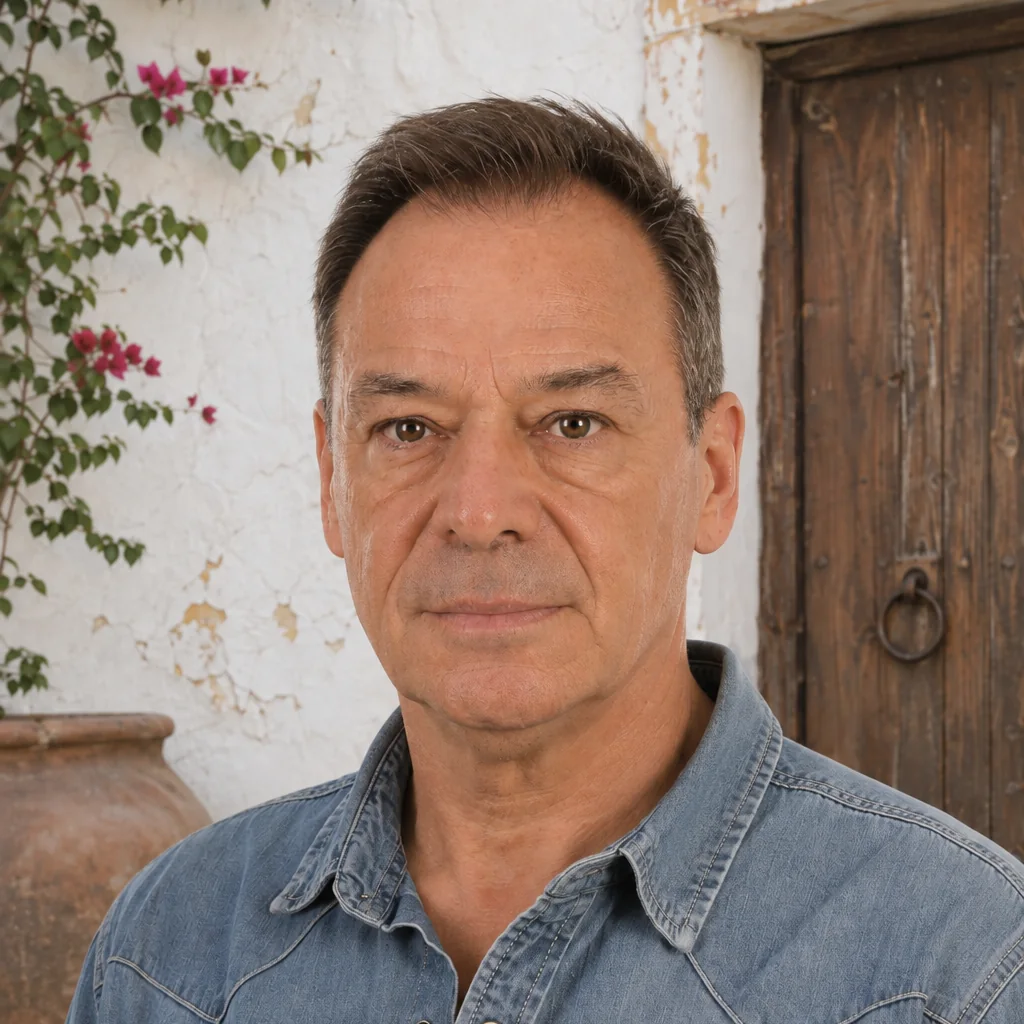
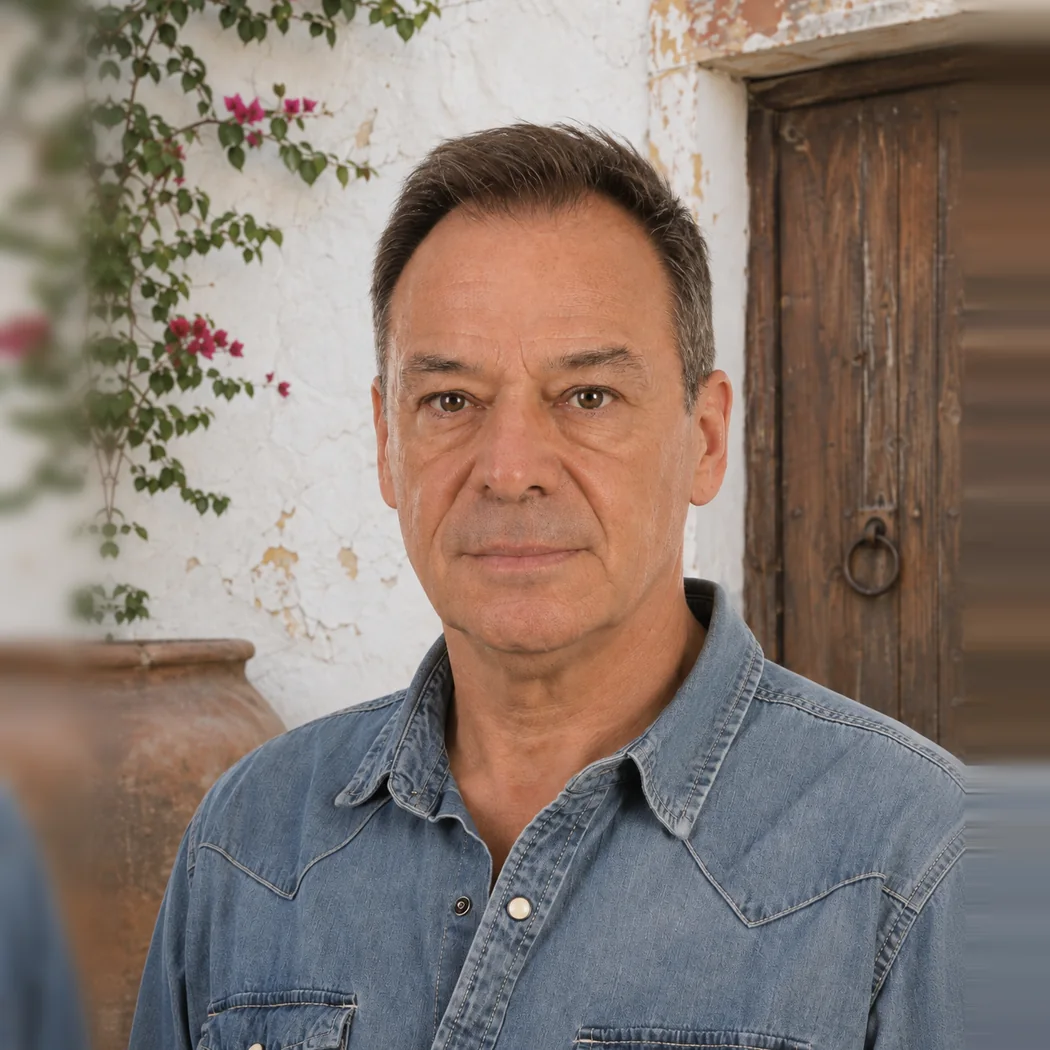
Foto Sobre: enquadramento mais aberto (~18%)
Claude-Session: https://claude.ai/code/session_016SUXdx9TjdyHh8kr6VuhDF

diff --git a/sobre/index.html b/sobre/index.html
@@ -10,5 +10,5 @@
 <a aria-label="ESSEN.CIA — Página inicial" class="logo" href="../"><img alt="ESSEN.CIA" class="brand-logo" data-v07-img="1" src="../assets/img/img-01.png"/></a>
 <nav aria-label="Menu principal" class="nav" id="nav"><a data-nav="inicio" data-v07-text="1" href="../">Início</a><a data-nav="sessoes" data-v07-text="2" href="../sessoes/">Sessões</a><a data-nav="essencia" data-v07-text="3" href="../essencia/">Essência</a><a data-nav="sobre" data-v07-text="4" href="../sobre/">Sobre</a><a class="btn mobile-only" data-v07-text="5" href="../sessoes/#contacto">Agendar conversa gratuita</a><a class="lang-switch" lang="en" hreflang="en" href="../en/about/">EN</a></nav>
 <a class="btn head-cta" data-v07-text="6" href="../sessoes/#contacto">Agendar conversa gratuita</a><a class="lang-switch lang-desk" lang="en" hreflang="en" href="../en/about/">EN</a><button aria-controls="nav" aria-expanded="false" aria-label="Abrir menu" class="menu-toggle" id="menu-toggle" type="button">☰</button></header>
-<main class="active" data-page="sobre" id="sobre"><section class="page-hero"><div class="shell about-top"><div><div class="eyebrow" data-v07-text="120">O facilitador</div><h1 data-v07-text="121">Quem está por detrás da ESSEN.CIA?</h1><p data-v07-text="122">Sou o Domingos Frazão. Facilito sessões de respiração consciente e práticas de consciência corporal. Sou também o fundador e responsável pela ESSEN.CIA.</p></div><figure class="image-frame feature-photo portrait-round"><img alt="Retrato de Domingos Frazão, fundador da ESSEN.CIA" data-v07-img="12" decoding="async" loading="lazy" src="../assets/img/img-12.webp?v=2"/></figure></div></section><section class="section"><div class="shell"><div class="long-read"><h2 data-v07-text="123">O meu percurso</h2><p data-v07-text="124">Durante mais de 30 anos trabalhei em tecnologia, gestão, desenvolvimento de negócio e coordenação de projetos. Foram anos de decisões, responsabilidade e contacto com pessoas em contextos exigentes. Vi de perto como vivemos a pressão e o pouco espaço que deixamos para perceber o que se passa connosco.</p><p data-v07-text="125">Em paralelo, fiz o meu caminho através do movimento, da música, do som e de várias formações em desenvolvimento pessoal. Aos poucos, a respiração e a consciência corporal passaram a ocupar o centro.</p><p data-v07-text="126">O que mais me formou foi a prática: equipas de suporte a retiros, trabalho com práticas somáticas e bioenergética, e muitas horas a escutar e a acompanhar o que surge numa sessão individual ou de grupo.</p><p class="card-small formacao-line">Formação: Breathwork Facilitator Training (INJOY) · Advanced Instructor Certification (Oxygen Advantage) · Working With People</p><hr class="light-rule"/><h2 data-v07-text="127">Como trabalho</h2><p data-v07-text="128">Hoje, na ESSEN.CIA, junto estas experiências de forma simples e prática. Facilito sessões de respiração consciente, movimento e exploração corporal, adaptadas a cada pessoa e ao seu contexto.</p><p data-v07-text="129">Às vezes o ponto de partida é concreto: conhecer a respiração, lidar com a pressão, ganhar foco, recuperar energia ou abrandar. Outras vezes, a sessão abre espaço à expressão emocional, ao autoconhecimento ou a experiências mais profundas.</p><p data-v07-text="130">Não acredito numa técnica que sirva para toda a gente, nem numa experiência com um resultado definido à partida. O meu papel não é interpretar o que cada pessoa vive nem indicar-lhe um caminho. É estar presente, propor ferramentas quando fazem sentido e criar condições para que cada pessoa explore e integre o que é importante para si.</p><hr class="light-rule"/><h2 data-v07-text="132">Colaborações</h2><p data-v07-text="133">Faço parte da equipa da INJOY, onde apoio retiros e sessões.</p><p>Atualmente, as sessões presenciais da ESSEN.CIA são no espaço SEED, onde também integro a equipa de facilitadores.</p><p>Estou também disponível para colaborar com outros profissionais e organizações que trabalhem a respiração e o corpo de forma responsável.</p><div aria-label="Projetos e espaços com ligação ao percurso do fundador" class="partners"><a aria-label="Visitar o Espaço SEED" class="partner-card" href="https://espacoseed.pt/" rel="noopener noreferrer" target="_blank"><span aria-hidden="true" class="partner-mark partner-seed-mark" style="background:#9c9084;border-color:#9c9084"><img alt="Identidade visual provisória do Espaço SEED" data-v07-img="13" height="120" loading="lazy" src="../assets/img/img-13.webp" width="120"/></span><span class="partner-name" data-v07-text="134">SEED</span><span class="partner-role" data-v07-text="135">Espaço onde decorrem as sessões presenciais</span><span class="partner-visit" data-v07-text="136">Visitar o site ↗</span></a><a aria-label="Visitar a Injoy" class="partner-card" href="https://injoy.pt/" rel="noopener noreferrer" target="_blank"><span class="partner-mark" style="background:#eee3c5;border-color:#eee3c5"><img alt="Logótipo Injoy com colibri" data-v07-img="14" decoding="async" height="96" loading="eager" src="../assets/img/img-14.webp" width="96"/></span><span class="partner-name" data-v07-text="137">INJOY</span><span class="partner-role" data-v07-text="138">Formação, experiências e retiros</span><span class="partner-visit" data-v07-text="139">Visitar o site ↗</span></a></div><hr class="light-rule"/><h2 data-v07-text="141">O próximo passo é teu.</h2><p data-v07-text="142">Para tirar dúvidas, propor uma colaboração ou experimentar uma sessão, começamos sempre por uma conversa.</p><a class="btn" data-v07-text="143" href="../sessoes/#contacto">Agendar conversa gratuita</a> </div></div></section></main>
+<main class="active" data-page="sobre" id="sobre"><section class="page-hero"><div class="shell about-top"><div><div class="eyebrow" data-v07-text="120">O facilitador</div><h1 data-v07-text="121">Quem está por detrás da ESSEN.CIA?</h1><p data-v07-text="122">Sou o Domingos Frazão. Facilito sessões de respiração consciente e práticas de consciência corporal. Sou também o fundador e responsável pela ESSEN.CIA.</p></div><figure class="image-frame feature-photo portrait-round"><img alt="Retrato de Domingos Frazão, fundador da ESSEN.CIA" data-v07-img="12" decoding="async" loading="lazy" src="../assets/img/img-12.webp?v=3"/></figure></div></section><section class="section"><div class="shell"><div class="long-read"><h2 data-v07-text="123">O meu percurso</h2><p data-v07-text="124">Durante mais de 30 anos trabalhei em tecnologia, gestão, desenvolvimento de negócio e coordenação de projetos. Foram anos de decisões, responsabilidade e contacto com pessoas em contextos exigentes. Vi de perto como vivemos a pressão e o pouco espaço que deixamos para perceber o que se passa connosco.</p><p data-v07-text="125">Em paralelo, fiz o meu caminho através do movimento, da música, do som e de várias formações em desenvolvimento pessoal. Aos poucos, a respiração e a consciência corporal passaram a ocupar o centro.</p><p data-v07-text="126">O que mais me formou foi a prática: equipas de suporte a retiros, trabalho com práticas somáticas e bioenergética, e muitas horas a escutar e a acompanhar o que surge numa sessão individual ou de grupo.</p><p class="card-small formacao-line">Formação: Breathwork Facilitator Training (INJOY) · Advanced Instructor Certification (Oxygen Advantage) · Working With People</p><hr class="light-rule"/><h2 data-v07-text="127">Como trabalho</h2><p data-v07-text="128">Hoje, na ESSEN.CIA, junto estas experiências de forma simples e prática. Facilito sessões de respiração consciente, movimento e exploração corporal, adaptadas a cada pessoa e ao seu contexto.</p><p data-v07-text="129">Às vezes o ponto de partida é concreto: conhecer a respiração, lidar com a pressão, ganhar foco, recuperar energia ou abrandar. Outras vezes, a sessão abre espaço à expressão emocional, ao autoconhecimento ou a experiências mais profundas.</p><p data-v07-text="130">Não acredito numa técnica que sirva para toda a gente, nem numa experiência com um resultado definido à partida. O meu papel não é interpretar o que cada pessoa vive nem indicar-lhe um caminho. É estar presente, propor ferramentas quando fazem sentido e criar condições para que cada pessoa explore e integre o que é importante para si.</p><hr class="light-rule"/><h2 data-v07-text="132">Colaborações</h2><p data-v07-text="133">Faço parte da equipa da INJOY, onde apoio retiros e sessões.</p><p>Atualmente, as sessões presenciais da ESSEN.CIA são no espaço SEED, onde também integro a equipa de facilitadores.</p><p>Estou também disponível para colaborar com outros profissionais e organizações que trabalhem a respiração e o corpo de forma responsável.</p><div aria-label="Projetos e espaços com ligação ao percurso do fundador" class="partners"><a aria-label="Visitar o Espaço SEED" class="partner-card" href="https://espacoseed.pt/" rel="noopener noreferrer" target="_blank"><span aria-hidden="true" class="partner-mark partner-seed-mark" style="background:#9c9084;border-color:#9c9084"><img alt="Identidade visual provisória do Espaço SEED" data-v07-img="13" height="120" loading="lazy" src="../assets/img/img-13.webp" width="120"/></span><span class="partner-name" data-v07-text="134">SEED</span><span class="partner-role" data-v07-text="135">Espaço onde decorrem as sessões presenciais</span><span class="partner-visit" data-v07-text="136">Visitar o site ↗</span></a><a aria-label="Visitar a Injoy" class="partner-card" href="https://injoy.pt/" rel="noopener noreferrer" target="_blank"><span class="partner-mark" style="background:#eee3c5;border-color:#eee3c5"><img alt="Logótipo Injoy com colibri" data-v07-img="14" decoding="async" height="96" loading="eager" src="../assets/img/img-14.webp" width="96"/></span><span class="partner-name" data-v07-text="137">INJOY</span><span class="partner-role" data-v07-text="138">Formação, experiências e retiros</span><span class="partner-visit" data-v07-text="139">Visitar o site ↗</span></a></div><hr class="light-rule"/><h2 data-v07-text="141">O próximo passo é teu.</h2><p data-v07-text="142">Para tirar dúvidas, propor uma colaboração ou experimentar uma sessão, começamos sempre por uma conversa.</p><a class="btn" data-v07-text="143" href="../sessoes/#contacto">Agendar conversa gratuita</a> </div></div></section></main>
 <footer class="footer"><div class="shell"><div class="footer-top"><div><a aria-label="ESSEN.CIA — início" class="logo" href="../"><img alt="ESSEN.CIA Breathwork" class="brand-logo" src="../assets/img/logo-breathwork-branco.png"/></a><p class="muted" data-v07-text="164" style="margin-top:17px">Respiração · Corpo · Consciência</p><form class="footer-news" id="news-form" novalidate=""><label for="news-email">Recebe as datas das próximas sessões</label><div class="footer-news-row"><input id="news-email" name="email" type="email" autocomplete="email" required="" placeholder="o teu e-mail" maxlength="160"/><input name="site" tabindex="-1" autocomplete="off" aria-hidden="true" style="position:absolute;left:-9999px;width:1px;height:1px"/><button class="btn" type="submit">Receber</button></div><p class="footer-news-note" id="news-status" role="status" aria-live="polite">Vais receber um e-mail para confirmar. Podes sair quando quiseres.</p></form></div><nav aria-label="Rodapé" class="footer-nav"><a data-v07-text="165" href="../">Início</a><a data-v07-text="166" href="../sessoes/">Sessões</a><a data-v07-text="167" href="../essencia/">Essência</a><a data-v07-text="168" href="../sobre/">Sobre</a></nav><div class="footer-nav footer-contact-links"><a data-v07-text="169" href="../sessoes/#contacto">Contacto</a><a data-v07-text="170" href="https://wa.me/351912145691" rel="noopener noreferrer" target="_blank"><svg aria-hidden="true" class="contact-icon" fill="none" height="18" stroke="currentColor" stroke-linecap="round" stroke-linejoin="round" stroke-width="1.7" viewbox="0 0 24 24" width="18"><path d="M20.7 11.9a8.7 8.7 0 0 1-13 7.4L3 20.6l1.2-4.3a8.7 8.7 0 1 1 16.5-4.4Z"></path><path d="M8.8 8.7c.7 2.8 2.2 4.5 5.6 5.8l1.2-1.4 2.2 1.1c-.5 2-2.2 2.4-4.3 1.5-3-1.3-5.2-3.5-6-6.4l1.3-1.9Z"></path></svg> WhatsApp</a><a data-v07-text="171" href="tel:+351912145691"><svg aria-hidden="true" class="contact-icon" fill="none" height="18" stroke="currentColor" stroke-linecap="round" stroke-linejoin="round" stroke-width="1.7" viewbox="0 0 24 24" width="18"><path d="M22 16.1v3a2 2 0 0 1-2.2 2c-9.2-1-16-7.8-17-17A2 2 0 0 1 4.8 2h3a2 2 0 0 1 2 1.7l.5 3a2 2 0 0 1-.6 1.7L8.2 9.9a16 16 0 0 0 5.9 5.9l1.5-1.5a2 2 0 0 1 1.7-.6l3 .5a2 2 0 0 1 1.7 1.9Z"></path></svg> +351 912 145 691</a><a data-v07-text="172" href="mailto:geral@essenciabreath.com"><svg aria-hidden="true" class="contact-icon" fill="none" height="18" stroke="currentColor" stroke-linecap="round" stroke-linejoin="round" stroke-width="1.7" viewbox="0 0 24 24" width="18"><rect height="15" rx="2" width="19" x="2.5" y="4.5"></rect><path d="m3 6 9 7 9-7"></path></svg> <span class="lbl" data-short="E-mail">geral@essenciabreath.com</span></a><a data-v07-text="173" href="https://www.instagram.com/essencia.breathwork/" rel="noopener noreferrer" target="_blank"><svg aria-hidden="true" class="contact-icon" fill="none" height="18" stroke="currentColor" stroke-linecap="round" stroke-linejoin="round" stroke-width="1.7" viewbox="0 0 24 24" width="18"><rect height="18" rx="5" width="18" x="3" y="3"></rect><circle cx="12" cy="12" r="4"></circle><circle cx="17.7" cy="6.4" fill="currentColor" r=".7" stroke="none"></circle></svg> <span class="lbl" data-short="Instagram">@essencia.breathwork</span></a><a data-v07-text="174" href="https://www.essenciabreath.com/" rel="noopener noreferrer" target="_blank"><svg aria-hidden="true" class="contact-icon" fill="none" height="18" stroke="currentColor" stroke-linecap="round" stroke-linejoin="round" stroke-width="1.7" viewbox="0 0 24 24" width="18"><circle cx="12" cy="12" r="9"></circle><path d="M3 12h18M12 3a15 15 0 0 1 0 18M12 3a15 15 0 0 0 0 18"></path></svg> <span class="lbl" data-short="Site">essenciabreath.com</span></a></div></div><div class="footer-small"><p class="legal-links"><a href="../avisos-legais/">Avisos legais</a><!-- · <a href="https://www.livroreclamacoes.pt/" target="_blank" rel="noopener noreferrer">Livro de Reclamações</a> (escondido até a inscrição estar feita) --> · © 2026 ESSEN.CIA · Essencia Breathwork, Lisboa</p></div></div></footer><script src="../js/site.js"></script></body></html>

diff --git a/en/about/index.html b/en/about/index.html
@@ -10,5 +10,5 @@
 <a aria-label="ESSEN.CIA, home page" class="logo" href="/en/"><img alt="ESSEN.CIA" class="brand-logo" data-v07-img="1" src="/assets/img/img-01.png"/></a>
 <nav aria-label="Main menu" class="nav" id="nav"><a data-nav="inicio" data-v07-text="1" href="/en/">Home</a><a data-nav="sessoes" data-v07-text="2" href="/en/sessions/">Sessions</a><a data-nav="essencia" data-v07-text="3" href="/en/approach/">Approach</a><a data-nav="sobre" data-v07-text="4" href="/en/about/">About</a><a class="btn mobile-only" data-v07-text="5" href="/en/sessions/#contacto">Book a free call</a><a class="lang-switch" lang="pt" hreflang="pt" href="/sobre/">PT</a></nav>
 <a class="btn head-cta" data-v07-text="6" href="/en/sessions/#contacto">Book a free call</a><a class="lang-switch lang-desk" lang="pt" hreflang="pt" href="/sobre/">PT</a><button aria-controls="nav" aria-expanded="false" aria-label="Open menu" class="menu-toggle" id="menu-toggle" type="button">☰</button></header>
-<main class="active" data-page="sobre" id="sobre"><section class="page-hero"><div class="shell about-top"><div><div class="eyebrow" data-v07-text="120">The facilitator</div><h1 data-v07-text="121">Who is behind ESSEN.CIA?</h1><p data-v07-text="122">I'm Domingos Frazão. I lead breathwork sessions and body awareness practices. I am also the founder of ESSEN.CIA and the person responsible for it.</p></div><figure class="image-frame feature-photo portrait-round"><img alt="Portrait of Domingos Frazão, founder of ESSEN.CIA" data-v07-img="12" decoding="async" loading="lazy" src="/assets/img/img-12.webp?v=2"/></figure></div></section><section class="section"><div class="shell"><div class="long-read"><h2 data-v07-text="123">My background</h2><p data-v07-text="124">For more than 30 years I worked in technology, management, business development and project coordination. Years of decisions, responsibility and working with people in demanding settings. I saw first-hand how we live with pressure and how little room we leave to notice what is going on inside us.</p><p data-v07-text="125">Alongside that, I followed my own path through movement, music, sound and several personal development trainings. Little by little, breathing and body awareness moved to the centre.</p><p data-v07-text="126">What shaped me most was practice: support teams at retreats, work with somatic practices and bioenergetics, and many hours listening to and accompanying what comes up in one-to-one and group sessions.</p><p class="card-small formacao-line">Training: Breathwork Facilitator Training (INJOY) · Advanced Instructor Certification (Oxygen Advantage) · Working With People</p><hr class="light-rule"/><h2 data-v07-text="127">How I work</h2><p data-v07-text="128">Today, at ESSEN.CIA, I bring these experiences together in a simple, practical way. I lead sessions of conscious breathing, movement and body exploration, adapted to each person and their situation.</p><p data-v07-text="129">Sometimes the starting point is concrete: getting to know your breathing, handling pressure, gaining focus, recovering energy or slowing down. Other times, the session makes room for emotional expression, self-knowledge or deeper experiences.</p><p data-v07-text="130">I don't believe in one technique for everyone, or in an experience with an outcome fixed in advance. My role is not to interpret what each person goes through or to show them a path. It is to be present, offer tools when they make sense and create the conditions for each person to explore and integrate what matters to them.</p><hr class="light-rule"/><h2 data-v07-text="132">Collaborations</h2><p data-v07-text="133">I am part of the INJOY team, where I support retreats and sessions.</p><p>ESSEN.CIA's in-person sessions currently take place at the SEED studio, where I am also part of the facilitator team.</p><p>I'm also open to working with other professionals and organisations that work with breathing and the body responsibly.</p><div aria-label="Projects and venues linked to the founder&#x27;s work" class="partners"><a aria-label="Visit the SEED studio" class="partner-card" href="https://espacoseed.pt/" rel="noopener noreferrer" target="_blank"><span aria-hidden="true" class="partner-mark partner-seed-mark" style="background:#9c9084;border-color:#9c9084"><img alt="Provisional visual identity of the SEED studio" data-v07-img="13" height="120" loading="lazy" src="/assets/img/img-13.webp" width="120"/></span><span class="partner-name" data-v07-text="134">SEED</span><span class="partner-role" data-v07-text="135">Venue for the in-person sessions</span><span class="partner-visit" data-v07-text="136">Visit the website ↗</span></a><a aria-label="Visit INJOY" class="partner-card" href="https://injoy.pt/" rel="noopener noreferrer" target="_blank"><span class="partner-mark" style="background:#eee3c5;border-color:#eee3c5"><img alt="INJOY logo with a hummingbird" data-v07-img="14" decoding="async" height="96" loading="eager" src="/assets/img/img-14.webp" width="96"/></span><span class="partner-name" data-v07-text="137">INJOY</span><span class="partner-role" data-v07-text="138">Training, experiences and retreats</span><span class="partner-visit" data-v07-text="139">Visit the website ↗</span></a></div><hr class="light-rule"/><h2 data-v07-text="141">The next step is yours.</h2><p data-v07-text="142">Whether you have questions, want to propose a collaboration or try a session, we always start with a conversation.</p><a class="btn" data-v07-text="143" href="/en/sessions/#contacto">Book a free call</a> </div></div></section></main>
+<main class="active" data-page="sobre" id="sobre"><section class="page-hero"><div class="shell about-top"><div><div class="eyebrow" data-v07-text="120">The facilitator</div><h1 data-v07-text="121">Who is behind ESSEN.CIA?</h1><p data-v07-text="122">I'm Domingos Frazão. I lead breathwork sessions and body awareness practices. I am also the founder of ESSEN.CIA and the person responsible for it.</p></div><figure class="image-frame feature-photo portrait-round"><img alt="Portrait of Domingos Frazão, founder of ESSEN.CIA" data-v07-img="12" decoding="async" loading="lazy" src="/assets/img/img-12.webp?v=3"/></figure></div></section><section class="section"><div class="shell"><div class="long-read"><h2 data-v07-text="123">My background</h2><p data-v07-text="124">For more than 30 years I worked in technology, management, business development and project coordination. Years of decisions, responsibility and working with people in demanding settings. I saw first-hand how we live with pressure and how little room we leave to notice what is going on inside us.</p><p data-v07-text="125">Alongside that, I followed my own path through movement, music, sound and several personal development trainings. Little by little, breathing and body awareness moved to the centre.</p><p data-v07-text="126">What shaped me most was practice: support teams at retreats, work with somatic practices and bioenergetics, and many hours listening to and accompanying what comes up in one-to-one and group sessions.</p><p class="card-small formacao-line">Training: Breathwork Facilitator Training (INJOY) · Advanced Instructor Certification (Oxygen Advantage) · Working With People</p><hr class="light-rule"/><h2 data-v07-text="127">How I work</h2><p data-v07-text="128">Today, at ESSEN.CIA, I bring these experiences together in a simple, practical way. I lead sessions of conscious breathing, movement and body exploration, adapted to each person and their situation.</p><p data-v07-text="129">Sometimes the starting point is concrete: getting to know your breathing, handling pressure, gaining focus, recovering energy or slowing down. Other times, the session makes room for emotional expression, self-knowledge or deeper experiences.</p><p data-v07-text="130">I don't believe in one technique for everyone, or in an experience with an outcome fixed in advance. My role is not to interpret what each person goes through or to show them a path. It is to be present, offer tools when they make sense and create the conditions for each person to explore and integrate what matters to them.</p><hr class="light-rule"/><h2 data-v07-text="132">Collaborations</h2><p data-v07-text="133">I am part of the INJOY team, where I support retreats and sessions.</p><p>ESSEN.CIA's in-person sessions currently take place at the SEED studio, where I am also part of the facilitator team.</p><p>I'm also open to working with other professionals and organisations that work with breathing and the body responsibly.</p><div aria-label="Projects and venues linked to the founder&#x27;s work" class="partners"><a aria-label="Visit the SEED studio" class="partner-card" href="https://espacoseed.pt/" rel="noopener noreferrer" target="_blank"><span aria-hidden="true" class="partner-mark partner-seed-mark" style="background:#9c9084;border-color:#9c9084"><img alt="Provisional visual identity of the SEED studio" data-v07-img="13" height="120" loading="lazy" src="/assets/img/img-13.webp" width="120"/></span><span class="partner-name" data-v07-text="134">SEED</span><span class="partner-role" data-v07-text="135">Venue for the in-person sessions</span><span class="partner-visit" data-v07-text="136">Visit the website ↗</span></a><a aria-label="Visit INJOY" class="partner-card" href="https://injoy.pt/" rel="noopener noreferrer" target="_blank"><span class="partner-mark" style="background:#eee3c5;border-color:#eee3c5"><img alt="INJOY logo with a hummingbird" data-v07-img="14" decoding="async" height="96" loading="eager" src="/assets/img/img-14.webp" width="96"/></span><span class="partner-name" data-v07-text="137">INJOY</span><span class="partner-role" data-v07-text="138">Training, experiences and retreats</span><span class="partner-visit" data-v07-text="139">Visit the website ↗</span></a></div><hr class="light-rule"/><h2 data-v07-text="141">The next step is yours.</h2><p data-v07-text="142">Whether you have questions, want to propose a collaboration or try a session, we always start with a conversation.</p><a class="btn" data-v07-text="143" href="/en/sessions/#contacto">Book a free call</a> </div></div></section></main>
 <footer class="footer"><div class="shell"><div class="footer-top"><div><a aria-label="ESSEN.CIA, home" class="logo" href="/en/"><img alt="ESSEN.CIA Breathwork" class="brand-logo" src="/assets/img/logo-breathwork-branco.png"/></a><p class="muted" data-v07-text="164" style="margin-top:17px">Breath · Body · Awareness</p><form class="footer-news" id="news-form" novalidate=""><label for="news-email">Get the dates of upcoming sessions</label><div class="footer-news-row"><input id="news-email" name="email" type="email" autocomplete="email" required="" placeholder="your e-mail" maxlength="160"/><input name="site" tabindex="-1" autocomplete="off" aria-hidden="true" style="position:absolute;left:-9999px;width:1px;height:1px"/><button class="btn" type="submit">Subscribe</button></div><p class="footer-news-note" id="news-status" role="status" aria-live="polite">You will receive an e-mail (in Portuguese) to confirm. You can unsubscribe at any time.</p></form></div><nav aria-label="Footer" class="footer-nav"><a data-v07-text="165" href="/en/">Home</a><a data-v07-text="166" href="/en/sessions/">Sessions</a><a data-v07-text="167" href="/en/approach/">Approach</a><a data-v07-text="168" href="/en/about/">About</a></nav><div class="footer-nav footer-contact-links"><a data-v07-text="169" href="/en/sessions/#contacto">Contact</a><a data-v07-text="170" href="https://wa.me/351912145691" rel="noopener noreferrer" target="_blank"><svg aria-hidden="true" class="contact-icon" fill="none" height="18" stroke="currentColor" stroke-linecap="round" stroke-linejoin="round" stroke-width="1.7" viewbox="0 0 24 24" width="18"><path d="M20.7 11.9a8.7 8.7 0 0 1-13 7.4L3 20.6l1.2-4.3a8.7 8.7 0 1 1 16.5-4.4Z"></path><path d="M8.8 8.7c.7 2.8 2.2 4.5 5.6 5.8l1.2-1.4 2.2 1.1c-.5 2-2.2 2.4-4.3 1.5-3-1.3-5.2-3.5-6-6.4l1.3-1.9Z"></path></svg> WhatsApp</a><a data-v07-text="171" href="tel:+351912145691"><svg aria-hidden="true" class="contact-icon" fill="none" height="18" stroke="currentColor" stroke-linecap="round" stroke-linejoin="round" stroke-width="1.7" viewbox="0 0 24 24" width="18"><path d="M22 16.1v3a2 2 0 0 1-2.2 2c-9.2-1-16-7.8-17-17A2 2 0 0 1 4.8 2h3a2 2 0 0 1 2 1.7l.5 3a2 2 0 0 1-.6 1.7L8.2 9.9a16 16 0 0 0 5.9 5.9l1.5-1.5a2 2 0 0 1 1.7-.6l3 .5a2 2 0 0 1 1.7 1.9Z"></path></svg> +351 912 145 691</a><a data-v07-text="172" href="mailto:geral@essenciabreath.com"><svg aria-hidden="true" class="contact-icon" fill="none" height="18" stroke="currentColor" stroke-linecap="round" stroke-linejoin="round" stroke-width="1.7" viewbox="0 0 24 24" width="18"><rect height="15" rx="2" width="19" x="2.5" y="4.5"></rect><path d="m3 6 9 7 9-7"></path></svg> <span class="lbl" data-short="E-mail">geral@essenciabreath.com</span></a><a data-v07-text="173" href="https://www.instagram.com/essencia.breathwork/" rel="noopener noreferrer" target="_blank"><svg aria-hidden="true" class="contact-icon" fill="none" height="18" stroke="currentColor" stroke-linecap="round" stroke-linejoin="round" stroke-width="1.7" viewbox="0 0 24 24" width="18"><rect height="18" rx="5" width="18" x="3" y="3"></rect><circle cx="12" cy="12" r="4"></circle><circle cx="17.7" cy="6.4" fill="currentColor" r=".7" stroke="none"></circle></svg> <span class="lbl" data-short="Instagram">@essencia.breathwork</span></a><a data-v07-text="174" href="https://www.essenciabreath.com/" rel="noopener noreferrer" target="_blank"><svg aria-hidden="true" class="contact-icon" fill="none" height="18" stroke="currentColor" stroke-linecap="round" stroke-linejoin="round" stroke-width="1.7" viewbox="0 0 24 24" width="18"><circle cx="12" cy="12" r="9"></circle><path d="M3 12h18M12 3a15 15 0 0 1 0 18M12 3a15 15 0 0 0 0 18"></path></svg> <span class="lbl" data-short="Site">essenciabreath.com</span></a></div></div><div class="footer-small"><p class="legal-links"><a href="/en/legal/">Legal</a><!-- · <a href="https://www.livroreclamacoes.pt/" target="_blank" rel="noopener noreferrer">Complaints Book</a> (escondido até a inscrição estar feita) --> · © 2026 ESSEN.CIA · Essencia Breathwork, Lisbon</p></div></div></footer><script src="/js/site.js"></script></body></html>
